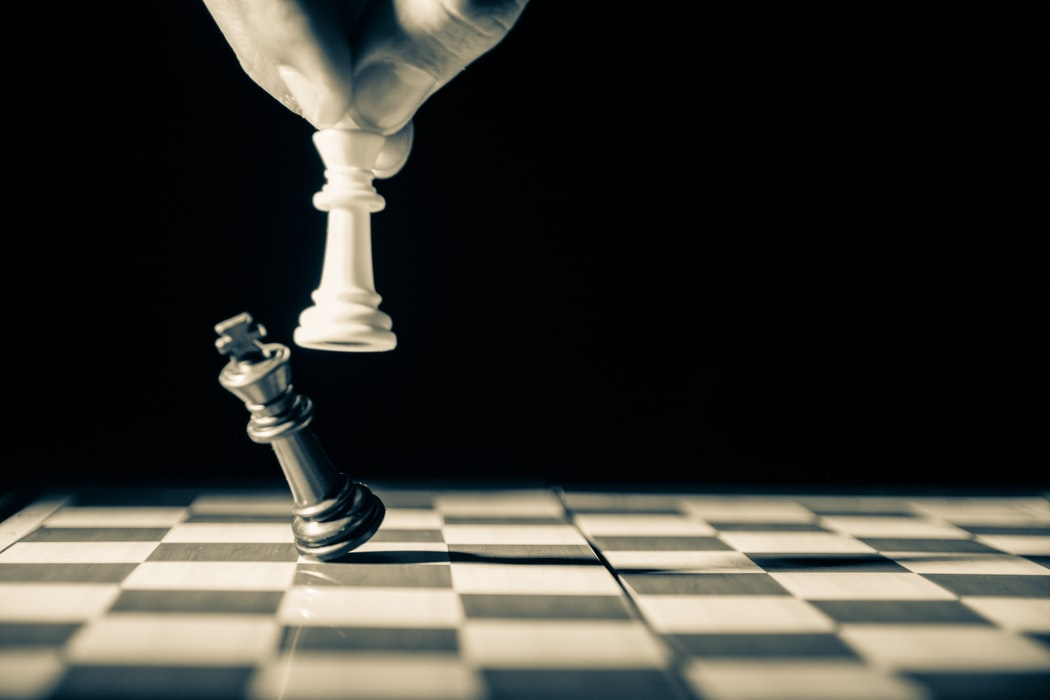
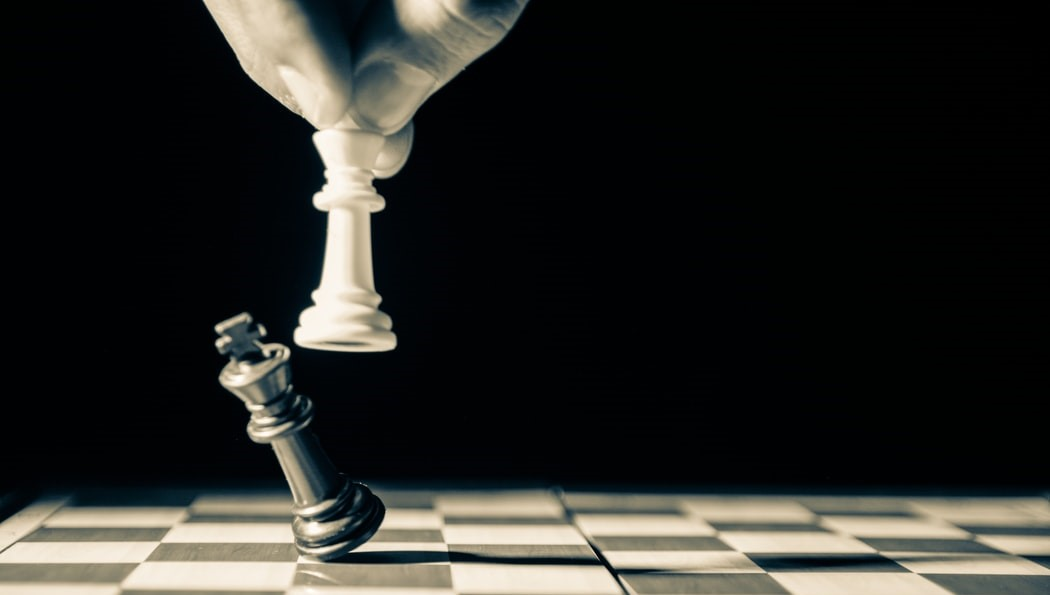
change pictures

diff --git a/index.html b/index.html
@@ -19,7 +19,7 @@
       href="https://cdn.jsdelivr.net/gh/creativetimofficial/tailwind-starter-kit/compiled-tailwind.min.css"
     />
     <link rel="stylesheet" href="style.css" />
-    <link rel="icon" href="./leszek2.jpg" />
+    <link rel="icon" href="./para.png" />
     <title>Lesław Kula</title>
   </head>
 
@@ -28,11 +28,11 @@
     <main>
       <!-- Motto - start -->
       <div
-        class="pt-16 pb-32 flex content-center items-center justify-center"
-        style="min-height: 80vh"
+        class="pt-64 pb-64 flex content-center items-center justify-center"
+        style="min-height: 100vh"
       >
         <div
-          class="absolute top-0 w-full h-full bg-top bg-cover"
+          class="absolute top-0 w-full h-full bg-cover bg-center"
           style="background-image: url('./tlo1.jpg')"
         >
           <span
@@ -59,7 +59,7 @@
         </div>
         <div
           class="
-            top-auto
+            top-10
             bottom-0
             left-0
             right-0
